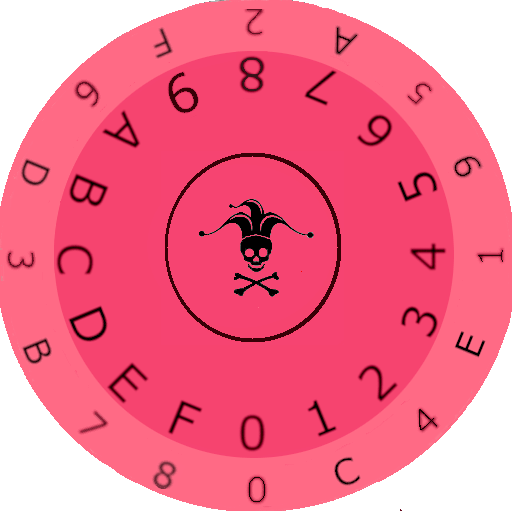
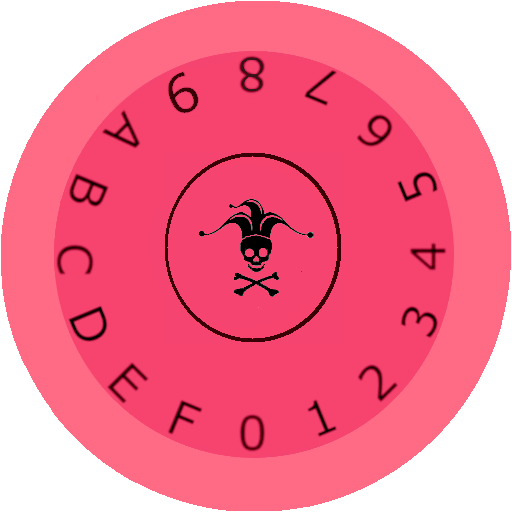
2026-07-30 ZenMatrix Visualize

diff --git a/C#/EU.CqrXs/Gui/Controls/ZenMatrixVControl.Designer.cs b/C#/EU.CqrXs/Gui/Controls/ZenMatrixVControl.Designer.cs
@@ -52,7 +52,7 @@
             textBox0.BackColor = Color.FromArgb(255, 106, 133);
             textBox0.BorderStyle = BorderStyle.None;
             textBox0.Font = new Font("Lucida Sans Unicode", 20F, FontStyle.Bold);
-            textBox0.Location = new Point(236, 468);
+            textBox0.Location = new Point(236, 466);
             textBox0.Margin = new Padding(6);
             textBox0.MaximumSize = new Size(48, 48);
             textBox0.MaxLength = 1;
@@ -69,7 +69,7 @@
             textBox1.BackColor = Color.FromArgb(255, 106, 133);
             textBox1.BorderStyle = BorderStyle.None;
             textBox1.Font = new Font("Lucida Sans Unicode", 20F, FontStyle.Bold);
-            textBox1.Location = new Point(326, 450);
+            textBox1.Location = new Point(326, 449);
             textBox1.Margin = new Padding(6);
             textBox1.MaximumSize = new Size(48, 48);
             textBox1.MaxLength = 1;
@@ -86,7 +86,7 @@
             textBox2.BackColor = Color.FromArgb(255, 106, 133);
             textBox2.BorderStyle = BorderStyle.None;
             textBox2.Font = new Font("Lucida Sans Unicode", 20F, FontStyle.Bold);
-            textBox2.Location = new Point(402, 401);
+            textBox2.Location = new Point(399, 397);
             textBox2.Margin = new Padding(6);
             textBox2.MaximumSize = new Size(48, 48);
             textBox2.MaxLength = 1;
@@ -103,7 +103,7 @@
             textBox3.BackColor = Color.FromArgb(255, 106, 133);
             textBox3.BorderStyle = BorderStyle.None;
             textBox3.Font = new Font("Lucida Sans Unicode", 20F, FontStyle.Bold);
-            textBox3.Location = new Point(454, 327);
+            textBox3.Location = new Point(449, 323);
             textBox3.Margin = new Padding(6);
             textBox3.MaximumSize = new Size(48, 48);
             textBox3.MaxLength = 1;
@@ -120,7 +120,7 @@
             textBox4.BackColor = Color.FromArgb(255, 106, 133);
             textBox4.BorderStyle = BorderStyle.None;
             textBox4.Font = new Font("Lucida Sans Unicode", 20F, FontStyle.Bold);
-            textBox4.Location = new Point(468, 240);
+            textBox4.Location = new Point(465, 240);
             textBox4.Margin = new Padding(6);
             textBox4.MaximumSize = new Size(48, 48);
             textBox4.MaxLength = 1;
@@ -137,7 +137,7 @@
             textBox5.BackColor = Color.FromArgb(255, 106, 133);
             textBox5.BorderStyle = BorderStyle.None;
             textBox5.Font = new Font("Lucida Sans Unicode", 20F, FontStyle.Bold);
-            textBox5.Location = new Point(453, 148);
+            textBox5.Location = new Point(448, 150);
             textBox5.Margin = new Padding(6);
             textBox5.MaximumSize = new Size(48, 48);
             textBox5.MaxLength = 1;
@@ -154,7 +154,7 @@
             textBox6.BackColor = Color.FromArgb(255, 106, 133);
             textBox6.BorderStyle = BorderStyle.None;
             textBox6.Font = new Font("Lucida Sans Unicode", 20F, FontStyle.Bold);
-            textBox6.Location = new Point(403, 70);
+            textBox6.Location = new Point(401, 76);
             textBox6.Margin = new Padding(6);
             textBox6.MaximumSize = new Size(48, 48);
             textBox6.MaxLength = 1;
@@ -171,7 +171,7 @@
             textBox7.BackColor = Color.FromArgb(255, 106, 133);
             textBox7.BorderStyle = BorderStyle.None;
             textBox7.Font = new Font("Lucida Sans Unicode", 20F, FontStyle.Bold);
-            textBox7.Location = new Point(330, 23);
+            textBox7.Location = new Point(330, 25);
             textBox7.Margin = new Padding(6);
             textBox7.MaximumSize = new Size(48, 48);
             textBox7.MaxLength = 1;
@@ -188,7 +188,7 @@
             textBox8.BackColor = Color.FromArgb(255, 106, 133);
             textBox8.BorderStyle = BorderStyle.None;
             textBox8.Font = new Font("Lucida Sans Unicode", 20F, FontStyle.Bold);
-            textBox8.Location = new Point(237, 5);
+            textBox8.Location = new Point(235, 6);
             textBox8.Margin = new Padding(6);
             textBox8.MaximumSize = new Size(48, 48);
             textBox8.MaxLength = 1;
@@ -205,7 +205,7 @@
             textBox9.BackColor = Color.FromArgb(255, 106, 133);
             textBox9.BorderStyle = BorderStyle.None;
             textBox9.Font = new Font("Lucida Sans Unicode", 20F, FontStyle.Bold);
-            textBox9.Location = new Point(143, 25);
+            textBox9.Location = new Point(141, 27);
             textBox9.Margin = new Padding(6);
             textBox9.MaximumSize = new Size(48, 48);
             textBox9.MaxLength = 1;
@@ -222,7 +222,7 @@
             textBoxA.BackColor = Color.FromArgb(255, 106, 133);
             textBoxA.BorderStyle = BorderStyle.None;
             textBoxA.Font = new Font("Lucida Sans Unicode", 20F, FontStyle.Bold);
-            textBoxA.Location = new Point(70, 76);
+            textBoxA.Location = new Point(72, 78);
             textBoxA.Margin = new Padding(6);
             textBoxA.MaximumSize = new Size(48, 48);
             textBoxA.MaxLength = 1;
@@ -239,7 +239,7 @@
             textBoxB.BackColor = Color.FromArgb(255, 106, 133);
             textBoxB.BorderStyle = BorderStyle.None;
             textBoxB.Font = new Font("Lucida Sans Unicode", 20F, FontStyle.Bold);
-            textBoxB.Location = new Point(22, 157);
+            textBoxB.Location = new Point(24, 157);
             textBoxB.Margin = new Padding(6);
             textBoxB.MaximumSize = new Size(48, 48);
             textBoxB.MaxLength = 1;
@@ -256,7 +256,7 @@
             textBoxC.BackColor = Color.FromArgb(255, 106, 133);
             textBoxC.BorderStyle = BorderStyle.None;
             textBoxC.Font = new Font("Lucida Sans Unicode", 20F, FontStyle.Bold);
-            textBoxC.Location = new Point(7, 245);
+            textBoxC.Location = new Point(8, 244);
             textBoxC.Margin = new Padding(6);
             textBoxC.MaximumSize = new Size(48, 48);
             textBoxC.MaxLength = 1;
@@ -273,7 +273,7 @@
             textBoxD.BackColor = Color.FromArgb(255, 106, 133);
             textBoxD.BorderStyle = BorderStyle.None;
             textBoxD.Font = new Font("Lucida Sans Unicode", 20F, FontStyle.Bold);
-            textBoxD.Location = new Point(23, 328);
+            textBoxD.Location = new Point(26, 326);
             textBoxD.Margin = new Padding(6);
             textBoxD.MaximumSize = new Size(48, 48);
             textBoxD.MaxLength = 1;
@@ -290,7 +290,7 @@
             textBoxE.BackColor = Color.FromArgb(255, 106, 133);
             textBoxE.BorderStyle = BorderStyle.None;
             textBoxE.Font = new Font("Lucida Sans Unicode", 20F, FontStyle.Bold);
-            textBoxE.Location = new Point(76, 403);
+            textBoxE.Location = new Point(78, 401);
             textBoxE.Margin = new Padding(6);
             textBoxE.MaximumSize = new Size(48, 48);
             textBoxE.MaxLength = 1;

diff --git a/C#/EU.CqrXs/Gui/Forms/ZenMatrixForm.cs b/C#/EU.CqrXs/Gui/Forms/ZenMatrixForm.cs
@@ -170,7 +170,7 @@ namespace EU.CqrXs.Gui.Forms
 
         private void exitToolStripMenuItem_Click(object sender, EventArgs e)
         {
-            Application.Exit(0);
+            Application.Exit();
         }
     }
 }
